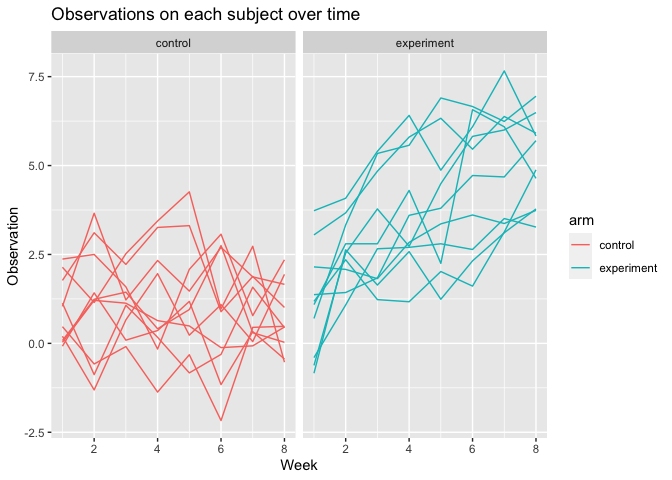
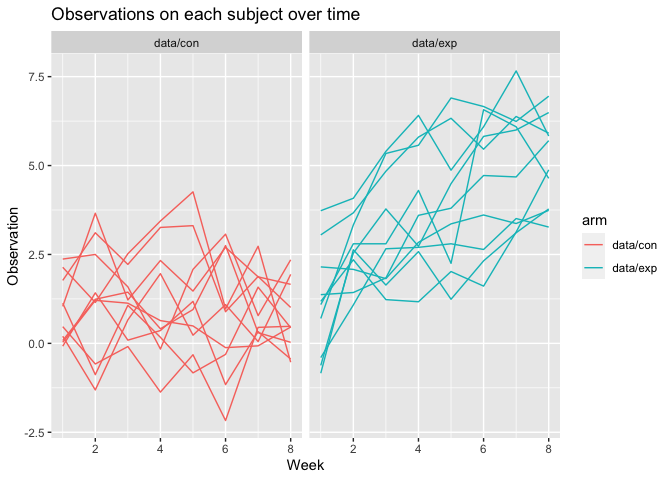
Finished with problem 3

diff --git a/p8105_hw5_sl4658.md b/p8105_hw5_sl4658.md
@@ -217,7 +217,7 @@ path_df =
     names_prefix = "week_",
     values_to = "observation") %>%
   mutate(
-    arm = str_replace(arm, "data/", ""),
+    arm = str_replace(arm, "lda_data/", ""),
     arm = recode(arm, "con" = "control",
                       "exp" = "experiment"),
     id = as.character(id),
@@ -470,3 +470,144 @@ experiment groups started from a relatively close value at week 0. The
 experiment group experienced an increasing trend in observation across
 time, while the control group remained relatively stable over the study
 time.
+
+## Problem 3
+
+Write a simulation function to explore power in a one-sample test (Fix
+n=30, sigma=5)
+
+``` r
+sim_mean_sd = function(mu) {
+  
+  sim_data = tibble(
+    x = rnorm(n = 30, mean = mu, sd = 5),
+  ) %>%
+    t.test(mu = 0, conf.level = 0.95) %>%
+    broom::tidy() %>%
+    select(estimate, p.value) %>%
+    rename(c("mu_hat" = "estimate", "p_value" = "p.value"))
+}
+```
+
+Set mu=0. Generate 5000 datasets from the model
+
+``` r
+sim_results = 
+  rerun(5000, sim_mean_sd(mu = 0) %>%
+          bind_rows()
+  )
+```
+
+Repeat the model for mu={1,2,3,4,5,6}
+
+``` r
+sim_results =
+  tibble(mu = 1:6) %>%
+  mutate(
+    sim_output = map(.x = mu, ~rerun(5000, sim_mean_sd(mu = .x))),
+    sim_estimate = map(sim_output, bind_rows)
+  ) %>%
+  select(-sim_output) %>%
+  unnest(sim_estimate)
+```
+
+Make a plot showing the proportion of times the null was rejected on the
+y axis and the true value of μ on the x axis
+
+``` r
+plot_1 = 
+  sim_results %>% 
+  mutate(
+    conclusion = if_else(p_value < 0.05, "reject", "fail to reject"),
+    mu = as.factor(mu)
+  ) %>%
+  group_by(mu) %>%
+  summarize(
+    reject = sum(conclusion == "reject"),
+    total = n(),
+    proportion = reject/total*100
+    ) %>% 
+  ggplot(aes(x = mu, y = proportion)) +
+  geom_point() +
+  labs(
+    title = "Power of the test over the true mean of the test",
+    x = "True value of mean",
+    y = "Power (proportion of times the null was rejected)"
+  )
+```
+
+    ## `summarise()` ungrouping output (override with `.groups` argument)
+
+``` r
+plot_1
+```
+
+![](p8105_hw5_sl4658_files/figure-gfm/unnamed-chunk-13-1.png)<!-- -->
+
+As shown on the plot, we can see that the power of test increased with
+the increase in effect size. This indicates a positive correlation
+between power of test and effect size. Power of test reached its highest
+point around effect size of 4 and remained steady after that.
+
+Make a plot `plot_2` showing the average estimate of μ̂ on the y axis
+and the true value of μ on the x axis.
+
+``` r
+plot_2 =
+  sim_results %>%
+  mutate(mu = as.factor(mu)) %>%
+  group_by(mu) %>%
+  summarize(mean_mu = mean(mu_hat)) %>%
+  ggplot(aes(x = mu, y = mean_mu)) +
+  geom_point(color = "red") +
+  ylim(0,7) +
+  labs(
+    title = "Average estimate of mu over the true value of mu in the entire data",
+    x = "True value of mu",
+    y = "Average estimate of mu") 
+```
+
+    ## `summarise()` ungrouping output (override with `.groups` argument)
+
+``` r
+plot_2
+```
+
+![](p8105_hw5_sl4658_files/figure-gfm/unnamed-chunk-14-1.png)<!-- -->
+
+Make another plot `plot_3` with the average estimate of μ̂ only in
+samples for which the null was rejected.
+
+``` r
+plot_3 = 
+  sim_results %>%
+  filter(p_value < 0.05) %>%
+  mutate(mu = as.factor(mu)) %>%
+  group_by(mu) %>%
+  summarize(mean_mu = mean(mu_hat)) %>%
+  ggplot(aes(x = mu, y = mean_mu)) +
+  geom_point(color = "orange") +
+  ylim(0,7) +
+  labs(
+    title = "Average estimate of mu over the true value of mu in the rejected data",
+    x = "True value of mu",
+    y = "Average estimate of mu")
+```
+
+    ## `summarise()` ungrouping output (override with `.groups` argument)
+
+``` r
+plot_3
+```
+
+![](p8105_hw5_sl4658_files/figure-gfm/unnamed-chunk-15-1.png)<!-- -->
+
+For lower values of true mu (1 and 2), the sample average of `mu_hat`
+across samples for which the null was rejected is not equal to the true
+mean, instead it’s larger than the true mean. However, as the true mu
+gets larger, the sample average of `mu_hat` across samples for which the
+null was rejected becomes close to the true mean for true mean.
+
+This may be explained by the increase in power with the increase in
+effect size. When we have a constant sample size, a greater effect size
+will give us more precise result that is close to the truth.
